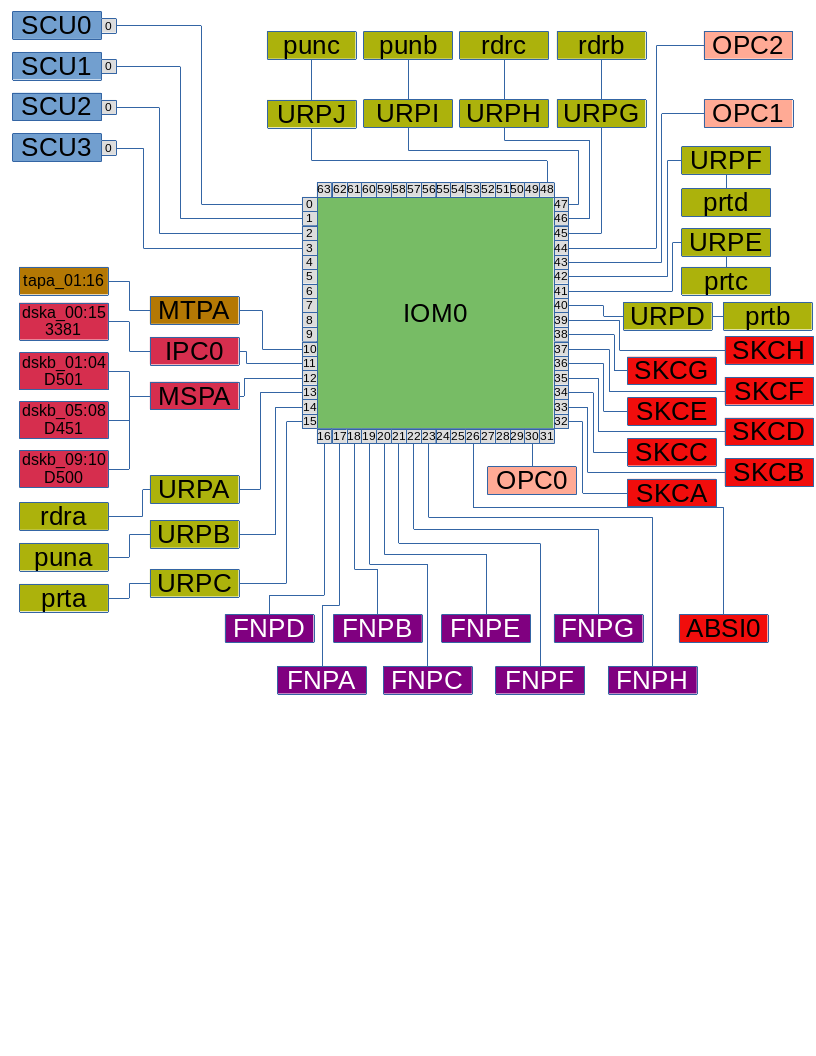
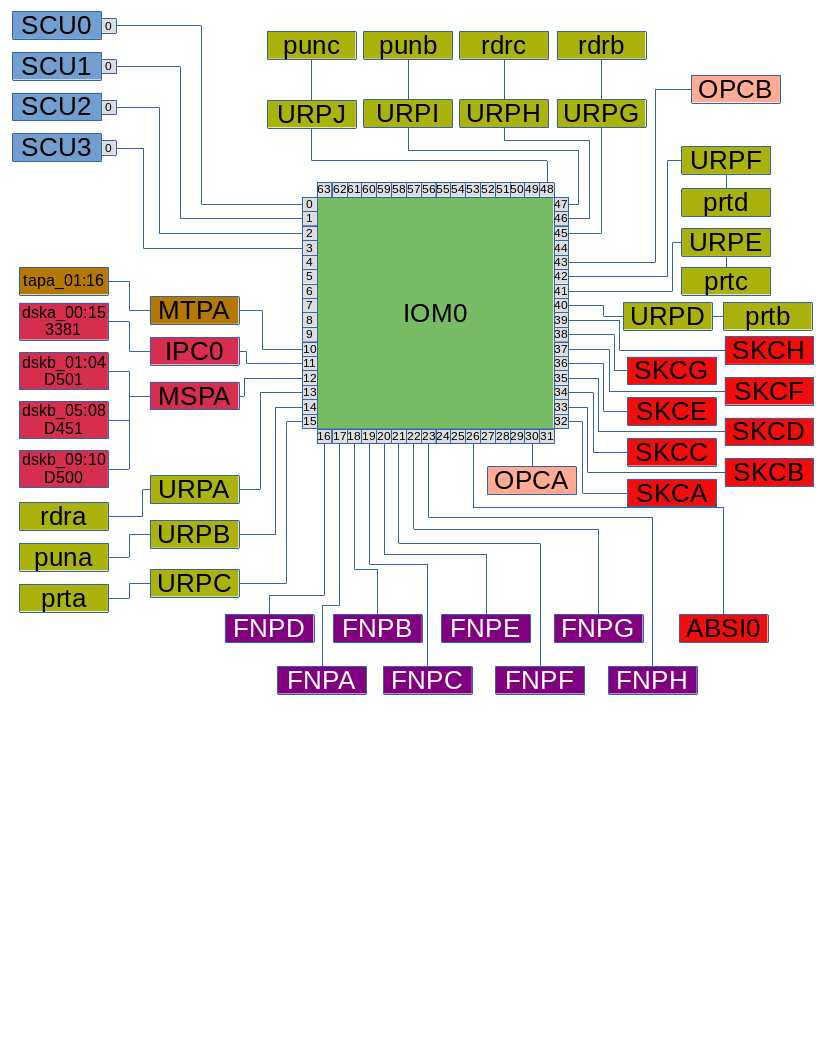
Updated IOM0 diagram and cable tables.

Changed region(s): [[0.8272, 0.0312, 0.9804, 0.125], [0.7966, 0.0938, 0.8272, 0.25], [0.6127, 0.4375, 0.7047, 0.4688]]

diff --git a/docs/manual/cable.tex b/docs/manual/cable.tex
@@ -152,6 +152,21 @@ no ".ini" file and entering the command "cable show" (which is how these tables 
 
 \begin{adjustwidth}{5ex}{1ex}
 	\begin{tabular}{ccccc}
+		& \texttt{IOM} & \texttt{<-->} & \texttt{SCU} &  \\
+		\texttt{IOM} & \texttt{port} & \texttt{-->} & \texttt{SCU} & \texttt{port} \\
+		\texttt{0} & \texttt{0} & & \texttt{0} & \texttt{0} \\
+		\texttt{0} & \texttt{1} & & \texttt{1} & \texttt{0} \\
+		\texttt{0} & \texttt{2} & & \texttt{2} & \texttt{0} \\
+		\texttt{0} & \texttt{3} & & \texttt{3} & \texttt{0} \\
+		\texttt{1} & \texttt{0} & & \texttt{0} & \texttt{1} \\
+		\texttt{1} & \texttt{1} & & \texttt{1} & \texttt{1} \\
+		\texttt{1} & \texttt{2} & & \texttt{2} & \texttt{1} \\
+		\texttt{1} & \texttt{3} & & \texttt{3} & \texttt{1} \\
+	\end{tabular}
+\end{adjustwidth}
+
+\begin{adjustwidth}{5ex}{1ex}
+	\begin{tabular}{ccccc}
 		& \texttt{SCU} & \texttt{<-->} & \texttt{CPU} &  \\
 		\texttt{SCU} & \texttt{port} & \texttt{-->} & \texttt{CPU} & \texttt{port} \\
 		\texttt{0} & \texttt{2} & & \texttt{5} & \texttt{0} \\
@@ -178,6 +193,37 @@ no ".ini" file and entering the command "cable show" (which is how these tables 
 		\texttt{3} & \texttt{5} & & \texttt{2} & \texttt{3} \\
 		\texttt{3} & \texttt{6} & & \texttt{1} & \texttt{3} \\
 		\texttt{3} & \texttt{7} & & \texttt{0} & \texttt{3} \\
+	\end{tabular}
+\end{adjustwidth}
+
+\begin{adjustwidth}{5ex}{1ex}
+	\begin{tabular}{ccccc}
+		& \texttt{CPU} & \texttt{<-->} & \texttt{SCU} &  \\
+		\texttt{CPU} & \texttt{port} & \texttt{-->} & \texttt{SCU} & \texttt{port} \\
+		\texttt{0} & \texttt{0} & & \texttt{0} & \texttt{7} \\
+		\texttt{0} & \texttt{1} & & \texttt{1} & \texttt{7} \\
+		\texttt{0} & \texttt{2} & & \texttt{2} & \texttt{7} \\
+		\texttt{0} & \texttt{3} & & \texttt{3} & \texttt{7} \\
+		\texttt{1} & \texttt{0} & & \texttt{0} & \texttt{6} \\
+		\texttt{1} & \texttt{1} & & \texttt{1} & \texttt{6} \\
+		\texttt{1} & \texttt{2} & & \texttt{2} & \texttt{6} \\
+		\texttt{1} & \texttt{3} & & \texttt{3} & \texttt{6} \\
+		\texttt{2} & \texttt{0} & & \texttt{0} & \texttt{5} \\
+		\texttt{2} & \texttt{1} & & \texttt{1} & \texttt{5} \\
+		\texttt{2} & \texttt{2} & & \texttt{2} & \texttt{5} \\
+		\texttt{2} & \texttt{3} & & \texttt{3} & \texttt{5} \\
+		\texttt{3} & \texttt{0} & & \texttt{0} & \texttt{4} \\
+		\texttt{3} & \texttt{1} & & \texttt{1} & \texttt{4} \\
+		\texttt{3} & \texttt{2} & & \texttt{2} & \texttt{4} \\
+		\texttt{3} & \texttt{3} & & \texttt{3} & \texttt{4} \\
+		\texttt{4} & \texttt{0} & & \texttt{0} & \texttt{3} \\
+		\texttt{4} & \texttt{1} & & \texttt{1} & \texttt{3} \\
+		\texttt{4} & \texttt{2} & & \texttt{2} & \texttt{3} \\
+		\texttt{4} & \texttt{3} & & \texttt{3} & \texttt{3} \\
+		\texttt{5} & \texttt{0} & & \texttt{0} & \texttt{2} \\
+		\texttt{5} & \texttt{1} & & \texttt{1} & \texttt{2} \\
+		\texttt{5} & \texttt{2} & & \texttt{2} & \texttt{2} \\
+		\texttt{5} & \texttt{3} & & \texttt{3} & \texttt{2} \\
 	\end{tabular}
 \end{adjustwidth}
 
@@ -210,11 +256,96 @@ no ".ini" file and entering the command "cable show" (which is how these tables 
 		\texttt{0} & \texttt{37} & & \texttt{5} & \texttt{0} & \texttt{SKC} & \texttt{Direct} & \texttt{0x4ef7a8} & \texttt{0x557008} & \texttt{0x445c20} \\
 		\texttt{0} & \texttt{38} & & \texttt{6} & \texttt{0} & \texttt{SKC} & \texttt{Direct} & \texttt{0x4ef7a8} & \texttt{0x557090} & \texttt{0x445c20} \\
 		\texttt{0} & \texttt{39} & & \texttt{7} & \texttt{0} & \texttt{SKC} & \texttt{Direct} & \texttt{0x4ef7a8} & \texttt{0x557118} & \texttt{0x445c20} \\
-		\texttt{1} & \texttt{10} & & \texttt{0} & \texttt{1} & \texttt{MTP} & \texttt{PSI} & \texttt{0x4e5f98} & \texttt{0x553c50} & \texttt{0x43ed50} \\
+		\texttt{0} & \texttt{40} & & \texttt{3} & \texttt{0} & \texttt{URP} & \texttt{PSI} & \texttt{0x4f4c48} & \texttt{0x4f4398} & \texttt{0x44aee0} \\
+		\texttt{0} & \texttt{41} & & \texttt{4} & \texttt{0} & \texttt{URP} & \texttt{PSI} & \texttt{0x4f4c48} & \texttt{0x4f4420} & \texttt{0x44aee0} \\
+		\texttt{0} & \texttt{42} & & \texttt{5} & \texttt{0} & \texttt{URP} & \texttt{PSI} & \texttt{0x4f4c48} & \texttt{0x4f44a8} & \texttt{0x44aee0} \\
+		\texttt{0} & \texttt{43} & & \texttt{1} & \texttt{0} & \texttt{OPC} & \texttt{CPI} & \texttt{0x4e1eb8} & \texttt{0x4e1978} & \texttt{0x40b950} \\
+		\texttt{0} & \texttt{45} & & \texttt{6} & \texttt{0} & \texttt{URP} & \texttt{PSI} & \texttt{0x4f4c48} & \texttt{0x4f4530} & \texttt{0x44aee0} \\
+		\texttt{0} & \texttt{46} & & \texttt{7} & \texttt{0} & \texttt{URP} & \texttt{PSI} & \texttt{0x4f4c48} & \texttt{0x4f45b8} & \texttt{0x44aee0} \\
+		\texttt{0} & \texttt{47} & & \texttt{8} & \texttt{0} & \texttt{URP} & \texttt{PSI} & \texttt{0x4f4c48} & \texttt{0x4f4640} & \texttt{0x44aee0} \\
+		\texttt{0} & \texttt{48} & & \texttt{9} & \texttt{0} & \texttt{URP} & \texttt{PSI} & \texttt{0x4f4c48} & \texttt{0x4f46c8} & \texttt{0x44aee0} \\
+        \texttt{1} & \texttt{10} & & \texttt{0} & \texttt{1} & \texttt{MTP} & \texttt{PSI} & \texttt{0x4e5f98} & \texttt{0x553c50} & \texttt{0x43ed50} \\
 		\texttt{1} & \texttt{11} & & \texttt{0} & \texttt{1} & \texttt{IPC} & \texttt{PSI} & \texttt{0x4e4208} & \texttt{0x551f20} & \texttt{0x4120e0} \\
 		\texttt{1} & \texttt{12} & & \texttt{0} & \texttt{1} & \texttt{MSP} & \texttt{PSI} & \texttt{0x4e4368} & \texttt{0x5527a0} & \texttt{0x4120e0} \\
 	\end{tabular}
 \end{adjustwidth}
+
+\begin{adjustwidth}{5ex}{1ex}
+	\begin{tabular}{ccccc}
+		& \texttt{MTP} & \texttt{<-->} & \texttt{IOM} &  \\
+		\texttt{MTP} & \texttt{port} & \texttt{-->} & \texttt{IOM} & \texttt{port} \\
+		\texttt{0} & \texttt{0} & & \texttt{0} & \texttt{10} \\
+		\texttt{0} & \texttt{1} & & \texttt{1} & \texttt{10} \\
+	\end{tabular}
+\end{adjustwidth}
+
+\begin{adjustwidth}{5ex}{1ex}
+	\begin{tabular}{ccccc}
+		& \texttt{MSP} & \texttt{<-->} & \texttt{IOM} &  \\
+		\texttt{MSP} & \texttt{port} & \texttt{-->} & \texttt{IOM} & \texttt{port} \\
+		\texttt{0} & \texttt{0} & & \texttt{0} & \texttt{12} \\
+		\texttt{0} & \texttt{1} & & \texttt{1} & \texttt{12} \\
+	\end{tabular}
+\end{adjustwidth}
+
+\begin{adjustwidth}{5ex}{1ex}
+	\begin{tabular}{ccccc}
+		& \texttt{IPC} & \texttt{<-->} & \texttt{IOM} &  \\
+		\texttt{IPC} & \texttt{port} & \texttt{-->} & \texttt{IOM} & \texttt{port} \\
+		\texttt{0} & \texttt{0} & & \texttt{0} & \texttt{11} \\
+		\texttt{0} & \texttt{1} & & \texttt{1} & \texttt{11} \\
+	\end{tabular}
+\end{adjustwidth}
+
+\begin{adjustwidth}{5ex}{1ex}
+	\begin{tabular}{ccccc}
+		& \texttt{URP} & \texttt{<-->} & \texttt{IOM} &  \\
+		\texttt{URP} & \texttt{port} & \texttt{-->} & \texttt{IOM} & \texttt{port} \\
+		\texttt{0} & \texttt{0} & & \texttt{0} & \texttt{13} \\
+		\texttt{1} & \texttt{0} & & \texttt{0} & \texttt{14} \\
+		\texttt{2} & \texttt{0} & & \texttt{0} & \texttt{15} \\
+		\texttt{3} & \texttt{0} & & \texttt{0} & \texttt{40} \\
+		\texttt{4} & \texttt{0} & & \texttt{0} & \texttt{41} \\
+		\texttt{5} & \texttt{0} & & \texttt{0} & \texttt{42} \\
+		\texttt{6} & \texttt{0} & & \texttt{0} & \texttt{45} \\
+		\texttt{7} & \texttt{0} & & \texttt{0} & \texttt{46} \\
+		\texttt{8} & \texttt{0} & & \texttt{0} & \texttt{47} \\
+		\texttt{9} & \texttt{0} & & \texttt{0} & \texttt{48} \\
+	\end{tabular}
+\end{adjustwidth}
+
+\begin{adjustwidth}{5ex}{1ex}
+	\begin{tabular}{ccccc}
+		& \texttt{ABSI} & \texttt{<-->} & \texttt{IOM} &  \\
+		\texttt{ABSI} & \texttt{port} & \texttt{-->} & \texttt{IOM} & \texttt{port} \\
+		\texttt{0} & \texttt{0} & & \texttt{0} & \texttt{26} \\
+	\end{tabular}
+\end{adjustwidth}
+
+\begin{adjustwidth}{5ex}{1ex}
+	\begin{tabular}{ccccc}
+		& \texttt{SKC} & \texttt{<-->} & \texttt{IOM} &  \\
+		\texttt{SKC} & \texttt{port} & \texttt{-->} & \texttt{IOM} & \texttt{port} \\
+		\texttt{0} & \texttt{0} & & \texttt{0} & \texttt{32} \\
+		\texttt{1} & \texttt{0} & & \texttt{0} & \texttt{33} \\
+		\texttt{2} & \texttt{0} & & \texttt{0} & \texttt{34} \\
+		\texttt{3} & \texttt{0} & & \texttt{0} & \texttt{35} \\
+		\texttt{4} & \texttt{0} & & \texttt{0} & \texttt{36} \\
+		\texttt{5} & \texttt{0} & & \texttt{0} & \texttt{37} \\
+		\texttt{6} & \texttt{0} & & \texttt{0} & \texttt{38} \\
+		\texttt{7} & \texttt{0} & & \texttt{0} & \texttt{39} \\
+	\end{tabular}
+\end{adjustwidth}
+
+\begin{adjustwidth}{5ex}{1ex}
+	\begin{tabular}{ccccc}
+		& \texttt{OPC} & \texttt{<-->} & \texttt{IOM} &  \\
+		\texttt{OPC} & \texttt{port} & \texttt{-->} & \texttt{IOM} & \texttt{port} \\
+		\texttt{0} & \texttt{0} & & \texttt{0} & \texttt{30} \\
+		\texttt{1} & \texttt{0} & & \texttt{0} & \texttt{43} \\
+	\end{tabular}
+\end{adjustwidth}
+
 
 \begin{adjustwidth}{5ex}{1ex}
 	\begin{tabular}{ccccc}
@@ -241,6 +372,18 @@ no ".ini" file and entering the command "cable show" (which is how these tables 
 		\texttt{0} & \texttt{1} & & \texttt{1} & \texttt{0x4120e0} \\
 		\texttt{0} & \texttt{2} & & \texttt{2} & \texttt{0x4120e0} \\
 		\texttt{0} & \texttt{3} & & \texttt{3} & \texttt{0x4120e0} \\
+		\texttt{0} & \texttt{4} & & \texttt{14} & \texttt{0x4120e0} \\
+		\texttt{0} & \texttt{5} & & \texttt{15} & \texttt{0x4120e0} \\
+		\texttt{0} & \texttt{6} & & \texttt{16} & \texttt{0x4120e0} \\
+		\texttt{0} & \texttt{7} & & \texttt{17} & \texttt{0x4120e0} \\
+		\texttt{0} & \texttt{8} & & \texttt{18} & \texttt{0x4120e0} \\
+		\texttt{0} & \texttt{9} & & \texttt{19} & \texttt{0x4120e0} \\
+		\texttt{0} & \texttt{10} & & \texttt{20} & \texttt{0x4120e0} \\
+		\texttt{0} & \texttt{11} & & \texttt{21} & \texttt{0x4120e0} \\
+		\texttt{0} & \texttt{12} & & \texttt{22} & \texttt{0x4120e0} \\
+		\texttt{0} & \texttt{13} & & \texttt{23} & \texttt{0x4120e0} \\
+		\texttt{0} & \texttt{14} & & \texttt{24} & \texttt{0x4120e0} \\
+		\texttt{0} & \texttt{15} & & \texttt{25} & \texttt{0x4120e0} \\
 		\texttt{MSP} & \texttt{dev\_code} & \texttt{-->} & \texttt{DISK} & \texttt{command} \\
 		\texttt{0} & \texttt{1} & & \texttt{4} & \texttt{0x4120e0} \\
 		\texttt{0} & \texttt{2} & & \texttt{5} & \texttt{0x4120e0} \\
@@ -250,9 +393,18 @@ no ".ini" file and entering the command "cable show" (which is how these tables 
 		\texttt{0} & \texttt{6} & & \texttt{9} & \texttt{0x4120e0} \\
 		\texttt{0} & \texttt{7} & & \texttt{10} & \texttt{0x4120e0} \\
 		\texttt{0} & \texttt{8} & & \texttt{11} & \texttt{0x4120e0} \\
+		\texttt{0} & \texttt{9} & & \texttt{12} & \texttt{0x4120e0} \\
+		\texttt{0} & \texttt{10} & & \texttt{13} & \texttt{0x4120e0} \\
 		\texttt{URP} & \texttt{dev\_code} & \texttt{-->} & \texttt{URP} & \texttt{command} \\
 		\texttt{0} & \texttt{1} & & \texttt{0} & \texttt{0x410f20} \\
 		\texttt{1} & \texttt{1} & & \texttt{0} & \texttt{0x410610} \\
 		\texttt{2} & \texttt{1} & & \texttt{0} & \texttt{0x441960} \\
+		\texttt{3} & \texttt{1} & & \texttt{1} & \texttt{0x441960} \\
+		\texttt{4} & \texttt{1} & & \texttt{2} & \texttt{0x441960} \\
+		\texttt{5} & \texttt{1} & & \texttt{3} & \texttt{0x441960} \\
+		\texttt{6} & \texttt{1} & & \texttt{1} & \texttt{0x441960} \\
+		\texttt{7} & \texttt{1} & & \texttt{2} & \texttt{0x441960} \\
+		\texttt{8} & \texttt{1} & & \texttt{1} & \texttt{0x441960} \\
+		\texttt{9} & \texttt{1} & & \texttt{2} & \texttt{0x441960} \\
 	\end{tabular}
 \end{adjustwidth}
